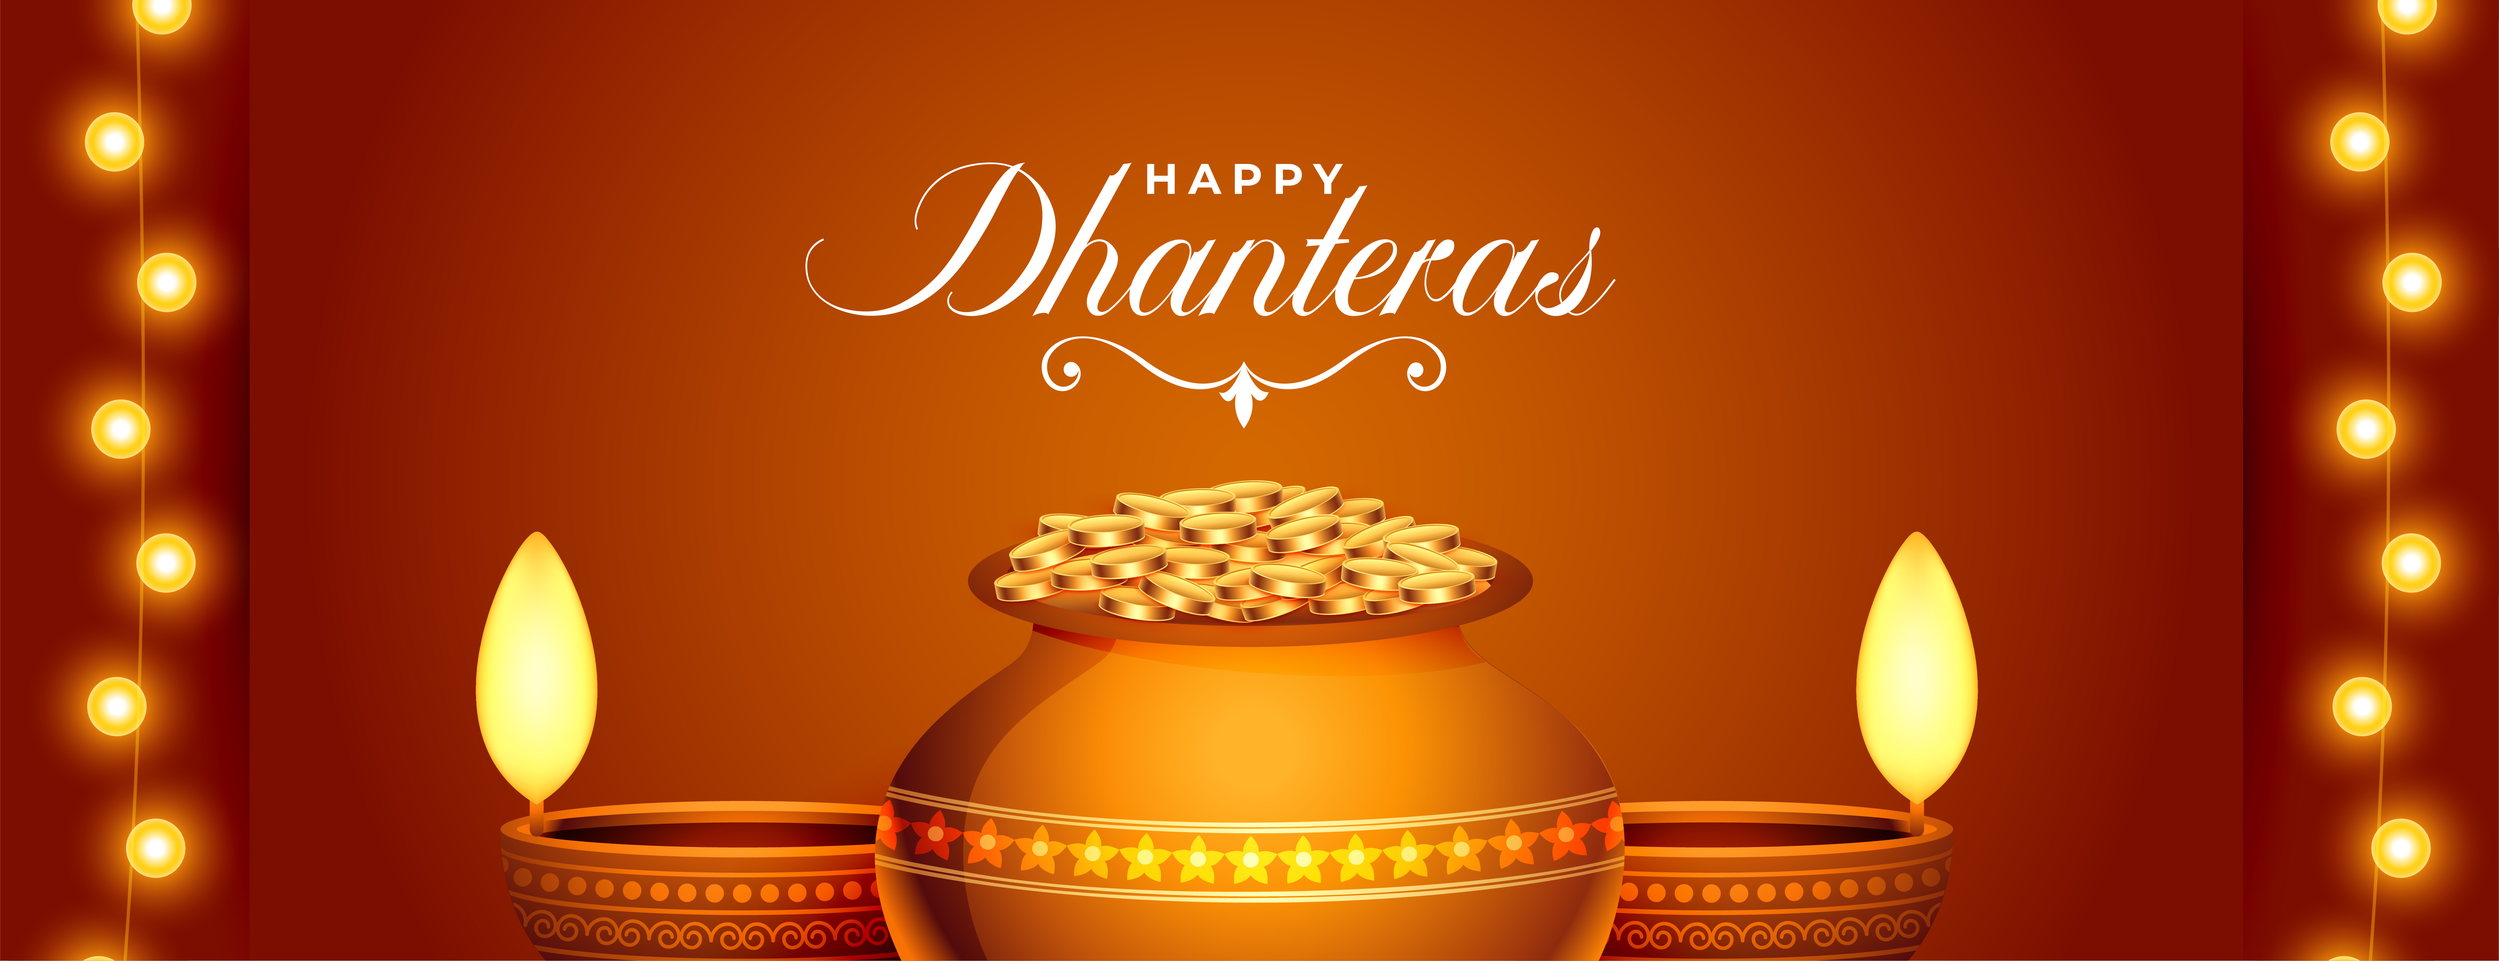
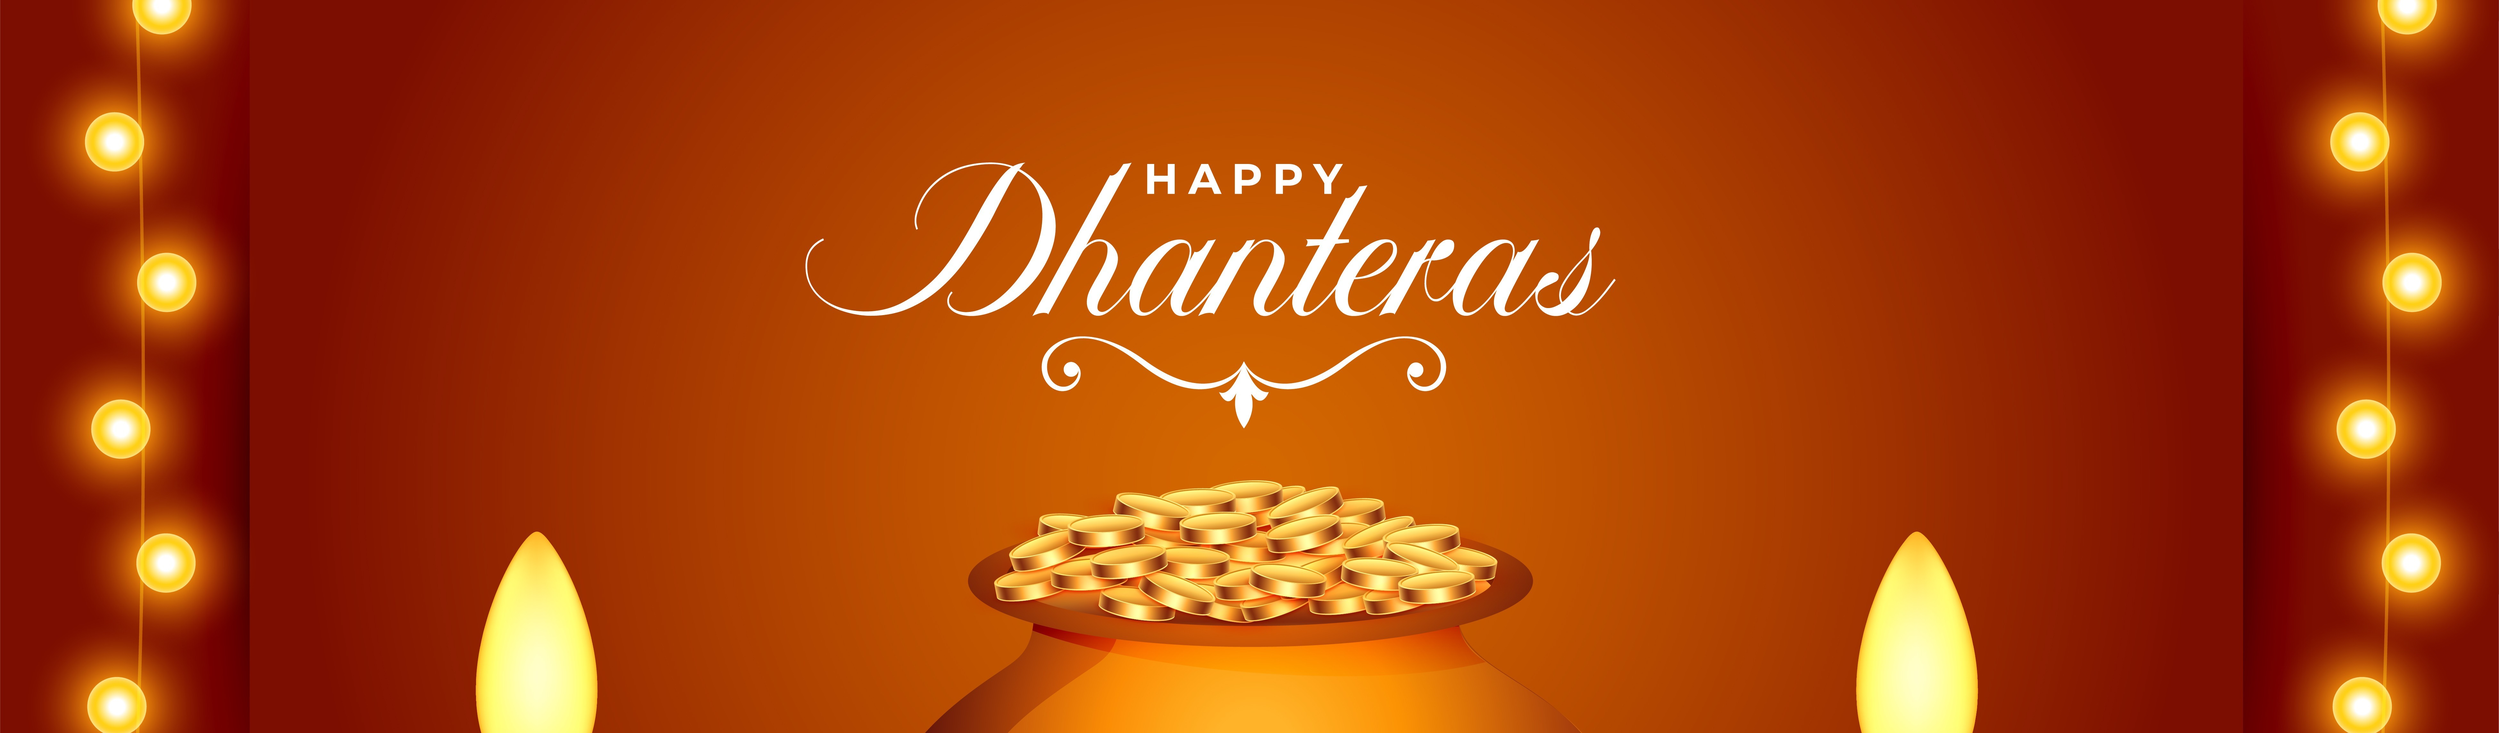
added comment

diff --git a/src/app/data/blogData.jsx b/src/app/data/blogData.jsx
@@ -19,22 +19,22 @@ export const blogData = [
       {
         "subheading": "Why Quality Matters More Than Initial Cost",
         "content": "CBG technology is biological, mechanical, and operational — all at once. Every part of the system impacts the final output. Quality matters in digester design and construction, where wrong geometry, poor lining, or low-grade materials lead to gas loss and structural damage.\n\nFeedstock management is critical — inadequate preprocessing systems reduce gas yield and increase maintenance. Purification and upgrading systems must be high-quality, as low-quality purification affects methane concentration and offtake compliance. Automation and controls are essential, because without reliable monitoring, small inefficiencies become large failures.\n\nO&M planning is crucial — plants fail not because of concept, but because of poor long-term operations planning. A robust CBG plant is engineered not just to start — but to survive, perform, and scale.",
-        "image": "/images/cbg-quality.jpg"
+        "image": "/images/blogdata5.jpg"
       },
       {
         "subheading": "CBG Economics: Where Real Profit Comes From",
         "content": "Smart investors understand one simple truth: Profit in CBG is made in operations, not just installation. Key drivers of long-term profitability include consistent gas output, lower downtime, predictable maintenance costs, efficient feedstock conversion, stable digestate (FOM/LFOM) recovery, and compliance with offtake agreements.\n\nAll of these depend on technology quality and EPC capability, not on who quoted the lowest price. A well-designed plant can deliver 40–45% ROI year-on-year, but only when operational efficiency is protected.",
-        "image": "/images/cbg-economics.jpg"
+        "image": "/images/blogdata6.jpg"
       },
       {
         "subheading": "Why Timing Matters: Locking Your Plant Before 31st December",
         "content": "Another critical factor investors must consider right now is pricing timelines. Across the industry, input costs have risen for steel and construction materials, specialized equipment, automation and safety systems, skilled manpower, and compliance and certification requirements.\n\nAs a result, CBG plant pricing is set to be revised from 1st January 2026. Projects locked before 31st December 2025 benefit from current pricing, while projects confirmed after that will face revised (higher) costs. Depending on plant capacity, early decision-making can save ₹50 lakh to ₹2 crore per project.\n\nThis is not a discount — it is a strategic cost advantage. Smart investors think ahead, not in hindsight.",
-        "image": "/images/cbg-timing.jpg"
+        "image": "/images/blogdata7.jpg"
       },
       {
         "subheading": "CBG Is Not Just Energy — It's an Ecosystem",
         "content": "A well-built CBG plant delivers more than gas. It provides clean fuel for transport, organic fertilizer for farms, income stability for farmers, waste management for regions, and carbon reduction for the nation. This ecosystem only works when the plant itself is future-ready.\n\nThat future cannot be built on compromises. The right question is not 'Kitna Sasta Hai?' The right questions are: Will this plant perform for 15 years? Is the technology proven at scale? Can the EPC partner support operations long-term? Are safety, compliance, and efficiency built-in? Will this plant protect my margins over time?\n\nWhen investors ask the right questions, the answer becomes clear: 'Sasta nahi — sabse achha hi sahi.' CBG is not a trend. It is infrastructure for India's clean energy future. Those who invest wisely today — in the right technology, the right partner, and the right time — will build assets that deliver returns, stability, and impact for decades.",
-        "image": "/images/cbg-ecosystem.jpg"
+        "image": "/images/turnkeythree.jpg"
       }
     ],
     "image": "/images/bannernew14.jpg",
@@ -57,22 +57,22 @@ export const blogData = [
       {
         "subheading": "Government-Backed Growth and Assured Returns",
         "content": "The Indian government's SATAT initiative has set an ambitious target to establish over 5,000 CBG plants producing 15 million tonnes annually by 2030. Oil Marketing Companies including IOCL, BPCL, HPCL, and GAIL have signed long-term purchase agreements ensuring 15 years of assured buyback with stable market demand.\n\nThe sector offers exceptional financial support with loans covering up to 70% of project costs and capital subsidies between 40-60% from central and state governments. Additional benefits include carbon credits and income tax rebates. Unlike volatile markets, CBG offers policy-backed, low-risk investment with potential ROI of 40-45% year-on-year and a break-even period of just 3-4 years. The multi-stream revenue model includes CBG sales to OMCs, organic fertilizer sales, carbon credit monetization, and government incentives.\n\nFurthermore, the Ministry of Petroleum and Natural Gas has simplified approval procedures and introduced single-window clearances for project developers. The National Bioenergy Programme also supports R&D and technology upgradation to ensure long-term viability. With global corporations showing interest in India's renewable sector, early investors in CBG can expect significant valuation appreciation. As India moves toward its Net Zero target by 2070, this sector is poised to attract substantial foreign and domestic investments.",
-        "image": "/images/dhanteras-govt.jpg"
+        "image": "/images/blogdata.jpg"
       },
       {
         "subheading": "Empowering Farmers Through Renewable Energy",
         "content": "For decades, Indian farmers have battled low incomes and crop residue management challenges. CBG bridges this gap by purchasing crop residue that would otherwise be burnt, providing organic fertilizer back to farms, and creating local employment opportunities.\n\nFarmers transform from mere suppliers into stakeholders of the renewable economy — earning more from waste sales, spending less on fertilizers, and working within an ecosystem that values their contribution. This model creates growth at the top while empowering grassroots communities, offering energy independence and sustainable livelihoods across rural India.\n\nThe decentralized nature of CBG plants ensures that energy production happens close to the source of raw material, minimizing transportation costs and maximizing local benefit. Cooperatives and Farmer Producer Organizations (FPOs) are increasingly collaborating with CBG developers, enabling farmers to share profits rather than just supplying feedstock. In addition, bio-slurry from plants is proving to enhance soil carbon levels and crop productivity, making farming both eco-friendly and economically rewarding. This synergy of agriculture and clean energy has the power to revolutionize rural India's income dynamics forever.",
-        "image": "/images/dhanteras-farmers.jpg"
+        "image": "/images/blogdata2.jpg"
       },
       {
         "subheading": "KEC Agritech — Leading India's CBG Revolution",
         "content": "Founded in October 2020, KEC Agritech Pvt. Ltd. is driving innovation in India's CBG sector by merging agriculture, technology, and sustainability. The company established India's First CBG Park in Bulandshahr, Uttar Pradesh — a pioneering model allowing multiple investors to participate using shared infrastructure.\n\nKEC's impressive portfolio includes over 20 feasibility studies completed, 74+ ongoing projects under management across 42 districts in 14 states, and total project value exceeding INR 1000 crores. Through comprehensive EPC services and project management consultancy, KEC guides investors from concept to commissioning. The company's integrated CBG Parks provide land, infrastructure, feedstock logistics, workforce training, and technology transfer — making renewable investment accessible even for first-time investors and entrepreneurs.\n\nKEC's model ensures operational efficiency by standardizing technology, optimizing logistics, and maintaining consistent gas purity and output. Their strategic partnerships with government bodies, research institutes, and technology providers have helped build a robust CBG ecosystem in India. Moreover, KEC's emphasis on circular economy principles ensures that every stage — from feedstock sourcing to fertilizer sales — contributes to sustainable growth. With transparent investor policies and a strong commitment to environmental stewardship, KEC Agritech stands as a trusted name in India's green energy transformation.",
-        "image": "/images/dhanteras-kec.jpg"
+        "image": "/images/blogdata3.jpg"
       },
       {
         "subheading": "The Time to Invest in Green Gold Is Now",
         "content": "India's clean energy transition is happening right now, not in some distant future. With increasing policy support, growing market demand, and proven profitability, the next five years will define who leads this revolution. CBG represents India's golden opportunity where investments don't just multiply wealth — they multiply impact by lighting up villages, fueling industries, and empowering farmers.\n\nThis Dhanteras, as lamps illuminate homes across the nation, consider being part of a movement that lights up the path toward clean energy and sustainable prosperity. Those who invest today will not only earn returns but also shape India's energy destiny for generations to come.\n\nCBG's potential goes beyond returns — it drives self-reliance in energy, supports India's rural economy, and contributes to climate resilience. With land availability, feedstock abundance, and technological maturity converging, the time is ripe for investors to step forward. As India moves toward a carbon-neutral future, those investing in green energy today will be remembered as pioneers of the nation's renewable revolution. Invest not just in gold this Dhanteras — invest in the Green Gold that powers tomorrow.",
-        "image": "/images/dhanteras-future.jpg"
+        "image": "/images/blogdata4.jpg"
       }
     ],
     "image": "/images/blogdhanteras2.jpg",

diff --git a/src/app/Components/BlogReviews.jsx b/src/app/Components/BlogReviews.jsx
@@ -1,0 +1,268 @@
+'use client';
+
+import { useState, useEffect } from 'react';
+import { MessageCircle, Send, User, ThumbsUp, Trash2 } from 'lucide-react';
+
+export default function BlogReviews({ blogSlug }) {
+  const [reviews, setReviews] = useState([]);
+  const [newReview, setNewReview] = useState({ name: '', comment: '' });
+  const [isSubmitting, setIsSubmitting] = useState(false);
+  const [isLoading, setIsLoading] = useState(true);
+  const [error, setError] = useState(null);
+
+  // Load reviews on component mount
+  useEffect(() => {
+    loadReviews();
+  }, [blogSlug]);
+
+  const loadReviews = () => {
+    try {
+      setIsLoading(true);
+      setError(null);
+      
+      if (typeof window !== 'undefined') {
+        const storedReviews = localStorage.getItem(`reviews:${blogSlug}`);
+        if (storedReviews) {
+          setReviews(JSON.parse(storedReviews));
+        } else {
+          setReviews([]);
+        }
+      }
+    } catch (error) {
+      console.error('Error loading reviews:', error);
+      setReviews([]);
+    } finally {
+      setIsLoading(false);
+    }
+  };
+
+  const handleSubmit = (e) => {
+    if (e) e.preventDefault();
+    
+    if (!newReview.name.trim() || !newReview.comment.trim()) {
+      setError('Please fill in all fields');
+      setTimeout(() => setError(null), 3000);
+      return;
+    }
+
+    setIsSubmitting(true);
+    setError(null);
+
+    const review = {
+      id: Date.now(),
+      name: newReview.name.trim(),
+      comment: newReview.comment.trim(),
+      date: new Date().toISOString(),
+      likes: 0
+    };
+
+    const updatedReviews = [review, ...reviews];
+
+    try {
+      if (typeof window !== 'undefined') {
+        localStorage.setItem(`reviews:${blogSlug}`, JSON.stringify(updatedReviews));
+        setReviews(updatedReviews);
+        setNewReview({ name: '', comment: '' });
+      }
+    } catch (error) {
+      console.error('Error saving review:', error);
+      setError('Failed to post review. Please try again.');
+      setTimeout(() => setError(null), 5000);
+    } finally {
+      setIsSubmitting(false);
+    }
+  };
+
+  const handleLike = (reviewId) => {
+    const updatedReviews = reviews.map(review =>
+      review.id === reviewId
+        ? { ...review, likes: review.likes + 1 }
+        : review
+    );
+
+    try {
+      if (typeof window !== 'undefined') {
+        localStorage.setItem(`reviews:${blogSlug}`, JSON.stringify(updatedReviews));
+        setReviews(updatedReviews);
+      }
+    } catch (error) {
+      console.error('Error updating like:', error);
+    }
+  };
+
+  const handleDelete = (reviewId) => {
+    if (!confirm('Are you sure you want to delete this review?')) return;
+
+    const updatedReviews = reviews.filter(review => review.id !== reviewId);
+
+    try {
+      if (typeof window !== 'undefined') {
+        localStorage.setItem(`reviews:${blogSlug}`, JSON.stringify(updatedReviews));
+        setReviews(updatedReviews);
+      }
+    } catch (error) {
+      console.error('Error deleting review:', error);
+      setError('Failed to delete review. Please try again.');
+      setTimeout(() => setError(null), 3000);
+    }
+  };
+
+  const formatDate = (dateString) => {
+    const date = new Date(dateString);
+    const now = new Date();
+    const diffInSeconds = Math.floor((now - date) / 1000);
+
+    if (diffInSeconds < 60) return 'Just now';
+    if (diffInSeconds < 3600) return `${Math.floor(diffInSeconds / 60)}m ago`;
+    if (diffInSeconds < 86400) return `${Math.floor(diffInSeconds / 3600)}h ago`;
+    if (diffInSeconds < 604800) return `${Math.floor(diffInSeconds / 86400)}d ago`;
+    
+    return date.toLocaleDateString('en-US', { 
+      year: 'numeric', 
+      month: 'short', 
+      day: 'numeric' 
+    });
+  };
+
+  return (
+    <div className="max-w-4xl mx-auto mt-16">
+      {/* Header */}
+      <div className="flex items-center gap-3 mb-8">
+        <div className="w-12 h-12 rounded-full bg-gradient-to-br from-orange-500 to-green-600 flex items-center justify-center">
+          <MessageCircle size={24} className="text-white" />
+        </div>
+        <div>
+          <h2 className="text-3xl font-bold text-gray-900">
+            Reviews & Comments
+          </h2>
+          <p className="text-gray-600 text-sm">
+            {reviews.length} {reviews.length === 1 ? 'review' : 'reviews'}
+          </p>
+        </div>
+      </div>
+
+      {/* Error Message */}
+      {error && (
+        <div className="bg-red-50 border-2 border-red-200 rounded-xl p-4 mb-6">
+          <p className="text-red-700 font-medium">{error}</p>
+        </div>
+      )}
+
+      {/* Review Form */}
+      <div className="bg-white rounded-2xl shadow-lg p-6 md:p-8 border border-gray-100 mb-8">
+        <h3 className="text-xl font-bold text-gray-900 mb-4">Leave a Review</h3>
+        <div className="space-y-4">
+          <div>
+            <label className="block text-sm font-semibold text-gray-700 mb-2">
+              Your Name
+            </label>
+            <input
+              type="text"
+              value={newReview.name}
+              onChange={(e) => setNewReview({ ...newReview, name: e.target.value })}
+              placeholder="Enter your name"
+              className="w-full px-4 py-3 border-2 border-gray-200 rounded-xl focus:border-orange-500 focus:outline-none transition-colors"
+              disabled={isSubmitting}
+            />
+          </div>
+          
+          <div>
+            <label className="block text-sm font-semibold text-gray-700 mb-2">
+              Your Comment
+            </label>
+            <textarea
+              value={newReview.comment}
+              onChange={(e) => setNewReview({ ...newReview, comment: e.target.value })}
+              placeholder="Share your thoughts about this article..."
+              rows="4"
+              className="w-full px-4 py-3 border-2 border-gray-200 rounded-xl focus:border-orange-500 focus:outline-none transition-colors resize-none"
+              disabled={isSubmitting}
+            />
+          </div>
+
+          <button
+            onClick={handleSubmit}
+            disabled={isSubmitting}
+            className="flex items-center gap-2 px-6 py-3 bg-gradient-to-r from-orange-500 to-green-600 text-white rounded-xl font-semibold hover:shadow-lg transition-all disabled:opacity-50 disabled:cursor-not-allowed"
+          >
+            {isSubmitting ? (
+              <>
+                <div className="w-5 h-5 border-2 border-white border-t-transparent rounded-full animate-spin"></div>
+                <span>Posting...</span>
+              </>
+            ) : (
+              <>
+                <Send size={20} />
+                <span>Post Review</span>
+              </>
+            )}
+          </button>
+        </div>
+      </div>
+
+      {/* Reviews List */}
+      <div className="space-y-4">
+        {isLoading ? (
+          <div className="bg-white rounded-2xl shadow-lg p-8 border border-gray-100 text-center">
+            <div className="w-12 h-12 border-4 border-orange-500 border-t-transparent rounded-full animate-spin mx-auto mb-4"></div>
+            <p className="text-gray-600">Loading reviews...</p>
+          </div>
+        ) : reviews.length === 0 ? (
+          <div className="bg-white rounded-2xl shadow-lg p-8 border border-gray-100 text-center">
+            <MessageCircle size={48} className="text-gray-300 mx-auto mb-4" />
+            <p className="text-gray-600 text-lg font-medium">No reviews yet</p>
+            <p className="text-gray-500 text-sm mt-2">Be the first to share your thoughts!</p>
+          </div>
+        ) : (
+          reviews.map((review) => (
+            <div
+              key={review.id}
+              className="bg-white rounded-2xl shadow-lg p-6 border border-gray-100 hover:shadow-xl transition-shadow"
+            >
+              <div className="flex items-start gap-4">
+                {/* Avatar */}
+                <div className="w-12 h-12 rounded-full bg-gradient-to-br from-orange-400 to-green-500 flex items-center justify-center flex-shrink-0">
+                  <User size={24} className="text-white" />
+                </div>
+
+                {/* Content */}
+                <div className="flex-1 min-w-0">
+                  <div className="flex items-start justify-between gap-2 mb-2">
+                    <div>
+                      <h4 className="font-bold text-gray-900 text-lg">
+                        {review.name}
+                      </h4>
+                      <p className="text-sm text-gray-500">
+                        {formatDate(review.date)}
+                      </p>
+                    </div>
+                    <button
+                      onClick={() => handleDelete(review.id)}
+                      className="p-2 text-gray-400 hover:text-red-500 hover:bg-red-50 rounded-lg transition-colors"
+                      title="Delete review"
+                    >
+                      <Trash2 size={18} />
+                    </button>
+                  </div>
+
+                  <p className="text-gray-700 leading-relaxed mb-4">
+                    {review.comment}
+                  </p>
+
+                  {/* Like Button */}
+                  <button
+                    onClick={() => handleLike(review.id)}
+                    className="flex items-center gap-2 px-4 py-2 bg-gray-100 hover:bg-orange-100 text-gray-700 hover:text-orange-600 rounded-lg transition-colors font-medium text-sm"
+                  >
+                    <ThumbsUp size={16} />
+                    <span>{review.likes}</span>
+                  </button>
+                </div>
+              </div>
+            </div>
+          ))
+        )}
+      </div>
+    </div>
+  );
+}

diff --git a/src/screens/BlogDetailScreen.jsx b/src/screens/BlogDetailScreen.jsx
@@ -18,6 +18,7 @@ import {
   Bookmark
 } from 'lucide-react';
 import Navbar from '@/app/Components/Navbar';
+import BlogReviews from '@/app/Components/BlogReviews';
 
 export default function BlogDetailScreen({ blog, relatedBlogs }) {
   const [liked, setLiked] = useState(false);
@@ -222,7 +223,7 @@ export default function BlogDetailScreen({ blog, relatedBlogs }) {
                     <span>{likes} Likes</span>
                   </button>
                   
-                  <div className="relative z-50">
+                  <div className="relative ">
                     <button 
                       onClick={() => setShareOpen(!shareOpen)}
                       className="flex items-center gap-2 px-6 py-3 bg-gradient-to-r from-orange-500 to-green-600 text-white rounded-full font-medium hover:shadow-lg transition-all"
@@ -288,7 +289,10 @@ export default function BlogDetailScreen({ blog, relatedBlogs }) {
                       </div>
                     )}
                   </div>
+
+                 
                 </div>
+                 <BlogReviews blogSlug={blog.slug} />
               </div>
             </div>
           </div>
